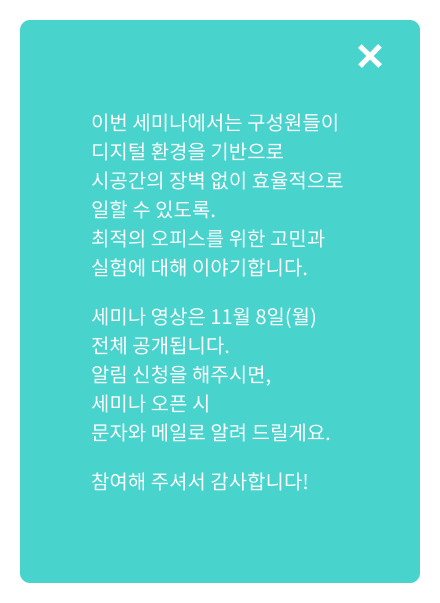
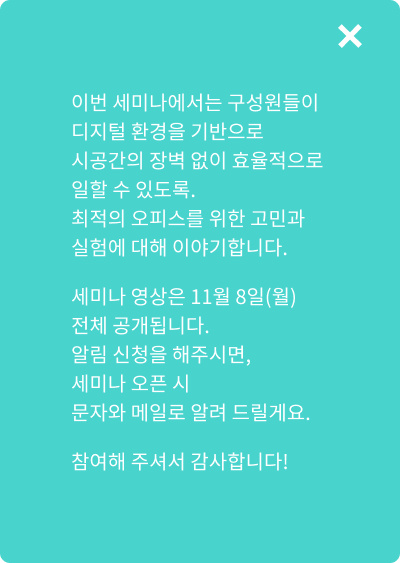
fullpage

diff --git a/09fullpage/js/jquery.colorbox-min.js b/09fullpage/js/jquery.colorbox-min.js
@@ -1,0 +1,6 @@
+/*!
+	Colorbox 1.6.4
+	license: MIT
+	http://www.jacklmoore.com/colorbox
+*/
+(function(t,e,i){function n(i,n,o){var r=e.createElement(i);return n&&(r.id=Z+n),o&&(r.style.cssText=o),t(r)}function o(){return i.innerHeight?i.innerHeight:t(i).height()}function r(e,i){i!==Object(i)&&(i={}),this.cache={},this.el=e,this.value=function(e){var n;return void 0===this.cache[e]&&(n=t(this.el).attr("data-cbox-"+e),void 0!==n?this.cache[e]=n:void 0!==i[e]?this.cache[e]=i[e]:void 0!==X[e]&&(this.cache[e]=X[e])),this.cache[e]},this.get=function(e){var i=this.value(e);return t.isFunction(i)?i.call(this.el,this):i}}function h(t){var e=W.length,i=(A+t)%e;return 0>i?e+i:i}function a(t,e){return Math.round((/%/.test(t)?("x"===e?E.width():o())/100:1)*parseInt(t,10))}function s(t,e){return t.get("photo")||t.get("photoRegex").test(e)}function l(t,e){return t.get("retinaUrl")&&i.devicePixelRatio>1?e.replace(t.get("photoRegex"),t.get("retinaSuffix")):e}function d(t){"contains"in x[0]&&!x[0].contains(t.target)&&t.target!==v[0]&&(t.stopPropagation(),x.focus())}function c(t){c.str!==t&&(x.add(v).removeClass(c.str).addClass(t),c.str=t)}function g(e){A=0,e&&e!==!1&&"nofollow"!==e?(W=t("."+te).filter(function(){var i=t.data(this,Y),n=new r(this,i);return n.get("rel")===e}),A=W.index(_.el),-1===A&&(W=W.add(_.el),A=W.length-1)):W=t(_.el)}function u(i){t(e).trigger(i),ae.triggerHandler(i)}function f(i){var o;if(!G){if(o=t(i).data(Y),_=new r(i,o),g(_.get("rel")),!U){U=$=!0,c(_.get("className")),x.css({visibility:"hidden",display:"block",opacity:""}),I=n(se,"LoadedContent","width:0; height:0; overflow:hidden; visibility:hidden"),b.css({width:"",height:""}).append(I),j=T.height()+k.height()+b.outerHeight(!0)-b.height(),D=C.width()+H.width()+b.outerWidth(!0)-b.width(),N=I.outerHeight(!0),z=I.outerWidth(!0);var h=a(_.get("initialWidth"),"x"),s=a(_.get("initialHeight"),"y"),l=_.get("maxWidth"),f=_.get("maxHeight");_.w=Math.max((l!==!1?Math.min(h,a(l,"x")):h)-z-D,0),_.h=Math.max((f!==!1?Math.min(s,a(f,"y")):s)-N-j,0),I.css({width:"",height:_.h}),J.position(),u(ee),_.get("onOpen"),O.add(F).hide(),x.focus(),_.get("trapFocus")&&e.addEventListener&&(e.addEventListener("focus",d,!0),ae.one(re,function(){e.removeEventListener("focus",d,!0)})),_.get("returnFocus")&&ae.one(re,function(){t(_.el).focus()})}var p=parseFloat(_.get("opacity"));v.css({opacity:p===p?p:"",cursor:_.get("overlayClose")?"pointer":"",visibility:"visible"}).show(),_.get("closeButton")?B.html(_.get("close")).appendTo(b):B.appendTo("<div/>"),w()}}function p(){x||(V=!1,E=t(i),x=n(se).attr({id:Y,"class":t.support.opacity===!1?Z+"IE":"",role:"dialog",tabindex:"-1"}).hide(),v=n(se,"Overlay").hide(),L=t([n(se,"LoadingOverlay")[0],n(se,"LoadingGraphic")[0]]),y=n(se,"Wrapper"),b=n(se,"Content").append(F=n(se,"Title"),R=n(se,"Current"),P=t('<button type="button"/>').attr({id:Z+"Previous"}),K=t('<button type="button"/>').attr({id:Z+"Next"}),S=t('<button type="button"/>').attr({id:Z+"Slideshow"}),L),B=t('<button type="button"/>').attr({id:Z+"Close"}),y.append(n(se).append(n(se,"TopLeft"),T=n(se,"TopCenter"),n(se,"TopRight")),n(se,!1,"clear:left").append(C=n(se,"MiddleLeft"),b,H=n(se,"MiddleRight")),n(se,!1,"clear:left").append(n(se,"BottomLeft"),k=n(se,"BottomCenter"),n(se,"BottomRight"))).find("div div").css({"float":"left"}),M=n(se,!1,"position:absolute; width:9999px; visibility:hidden; display:none; max-width:none;"),O=K.add(P).add(R).add(S)),e.body&&!x.parent().length&&t(e.body).append(v,x.append(y,M))}function m(){function i(t){t.which>1||t.shiftKey||t.altKey||t.metaKey||t.ctrlKey||(t.preventDefault(),f(this))}return x?(V||(V=!0,K.click(function(){J.next()}),P.click(function(){J.prev()}),B.click(function(){J.close()}),v.click(function(){_.get("overlayClose")&&J.close()}),t(e).bind("keydown."+Z,function(t){var e=t.keyCode;U&&_.get("escKey")&&27===e&&(t.preventDefault(),J.close()),U&&_.get("arrowKey")&&W[1]&&!t.altKey&&(37===e?(t.preventDefault(),P.click()):39===e&&(t.preventDefault(),K.click()))}),t.isFunction(t.fn.on)?t(e).on("click."+Z,"."+te,i):t("."+te).live("click."+Z,i)),!0):!1}function w(){var e,o,r,h=J.prep,d=++le;if($=!0,q=!1,u(he),u(ie),_.get("onLoad"),_.h=_.get("height")?a(_.get("height"),"y")-N-j:_.get("innerHeight")&&a(_.get("innerHeight"),"y"),_.w=_.get("width")?a(_.get("width"),"x")-z-D:_.get("innerWidth")&&a(_.get("innerWidth"),"x"),_.mw=_.w,_.mh=_.h,_.get("maxWidth")&&(_.mw=a(_.get("maxWidth"),"x")-z-D,_.mw=_.w&&_.w<_.mw?_.w:_.mw),_.get("maxHeight")&&(_.mh=a(_.get("maxHeight"),"y")-N-j,_.mh=_.h&&_.h<_.mh?_.h:_.mh),e=_.get("href"),Q=setTimeout(function(){L.show()},100),_.get("inline")){var c=t(e).eq(0);r=t("<div>").hide().insertBefore(c),ae.one(he,function(){r.replaceWith(c)}),h(c)}else _.get("iframe")?h(" "):_.get("html")?h(_.get("html")):s(_,e)?(e=l(_,e),q=_.get("createImg"),t(q).addClass(Z+"Photo").bind("error."+Z,function(){h(n(se,"Error").html(_.get("imgError")))}).one("load",function(){d===le&&setTimeout(function(){var e;_.get("retinaImage")&&i.devicePixelRatio>1&&(q.height=q.height/i.devicePixelRatio,q.width=q.width/i.devicePixelRatio),_.get("scalePhotos")&&(o=function(){q.height-=q.height*e,q.width-=q.width*e},_.mw&&q.width>_.mw&&(e=(q.width-_.mw)/q.width,o()),_.mh&&q.height>_.mh&&(e=(q.height-_.mh)/q.height,o())),_.h&&(q.style.marginTop=Math.max(_.mh-q.height,0)/2+"px"),W[1]&&(_.get("loop")||W[A+1])&&(q.style.cursor="pointer",t(q).bind("click."+Z,function(){J.next()})),q.style.width=q.width+"px",q.style.height=q.height+"px",h(q)},1)}),q.src=e):e&&M.load(e,_.get("data"),function(e,i){d===le&&h("error"===i?n(se,"Error").html(_.get("xhrError")):t(this).contents())})}var v,x,y,b,T,C,H,k,W,E,I,M,L,F,R,S,K,P,B,O,_,j,D,N,z,A,q,U,$,G,Q,J,V,X={html:!1,photo:!1,iframe:!1,inline:!1,transition:"elastic",speed:300,fadeOut:300,width:!1,initialWidth:"600",innerWidth:!1,maxWidth:!1,height:!1,initialHeight:"450",innerHeight:!1,maxHeight:!1,scalePhotos:!0,scrolling:!0,opacity:.9,preloading:!0,className:!1,overlayClose:!0,escKey:!0,arrowKey:!0,top:!1,bottom:!1,left:!1,right:!1,fixed:!1,data:void 0,closeButton:!0,fastIframe:!0,open:!1,reposition:!0,loop:!0,slideshow:!1,slideshowAuto:!0,slideshowSpeed:2500,slideshowStart:"start slideshow",slideshowStop:"stop slideshow",photoRegex:/\.(gif|png|jp(e|g|eg)|bmp|ico|webp|jxr|svg)((#|\?).*)?$/i,retinaImage:!1,retinaUrl:!1,retinaSuffix:"@2x.$1",current:"image {current} of {total}",previous:"previous",next:"next",close:"close",xhrError:"This content failed to load.",imgError:"This image failed to load.",returnFocus:!0,trapFocus:!0,onOpen:!1,onLoad:!1,onComplete:!1,onCleanup:!1,onClosed:!1,rel:function(){return this.rel},href:function(){return t(this).attr("href")},title:function(){return this.title},createImg:function(){var e=new Image,i=t(this).data("cbox-img-attrs");return"object"==typeof i&&t.each(i,function(t,i){e[t]=i}),e},createIframe:function(){var i=e.createElement("iframe"),n=t(this).data("cbox-iframe-attrs");return"object"==typeof n&&t.each(n,function(t,e){i[t]=e}),"frameBorder"in i&&(i.frameBorder=0),"allowTransparency"in i&&(i.allowTransparency="true"),i.name=(new Date).getTime(),i.allowFullscreen=!0,i}},Y="colorbox",Z="cbox",te=Z+"Element",ee=Z+"_open",ie=Z+"_load",ne=Z+"_complete",oe=Z+"_cleanup",re=Z+"_closed",he=Z+"_purge",ae=t("<a/>"),se="div",le=0,de={},ce=function(){function t(){clearTimeout(h)}function e(){(_.get("loop")||W[A+1])&&(t(),h=setTimeout(J.next,_.get("slideshowSpeed")))}function i(){S.html(_.get("slideshowStop")).unbind(s).one(s,n),ae.bind(ne,e).bind(ie,t),x.removeClass(a+"off").addClass(a+"on")}function n(){t(),ae.unbind(ne,e).unbind(ie,t),S.html(_.get("slideshowStart")).unbind(s).one(s,function(){J.next(),i()}),x.removeClass(a+"on").addClass(a+"off")}function o(){r=!1,S.hide(),t(),ae.unbind(ne,e).unbind(ie,t),x.removeClass(a+"off "+a+"on")}var r,h,a=Z+"Slideshow_",s="click."+Z;return function(){r?_.get("slideshow")||(ae.unbind(oe,o),o()):_.get("slideshow")&&W[1]&&(r=!0,ae.one(oe,o),_.get("slideshowAuto")?i():n(),S.show())}}();t[Y]||(t(p),J=t.fn[Y]=t[Y]=function(e,i){var n,o=this;return e=e||{},t.isFunction(o)&&(o=t("<a/>"),e.open=!0),o[0]?(p(),m()&&(i&&(e.onComplete=i),o.each(function(){var i=t.data(this,Y)||{};t.data(this,Y,t.extend(i,e))}).addClass(te),n=new r(o[0],e),n.get("open")&&f(o[0])),o):o},J.position=function(e,i){function n(){T[0].style.width=k[0].style.width=b[0].style.width=parseInt(x[0].style.width,10)-D+"px",b[0].style.height=C[0].style.height=H[0].style.height=parseInt(x[0].style.height,10)-j+"px"}var r,h,s,l=0,d=0,c=x.offset();if(E.unbind("resize."+Z),x.css({top:-9e4,left:-9e4}),h=E.scrollTop(),s=E.scrollLeft(),_.get("fixed")?(c.top-=h,c.left-=s,x.css({position:"fixed"})):(l=h,d=s,x.css({position:"absolute"})),d+=_.get("right")!==!1?Math.max(E.width()-_.w-z-D-a(_.get("right"),"x"),0):_.get("left")!==!1?a(_.get("left"),"x"):Math.round(Math.max(E.width()-_.w-z-D,0)/2),l+=_.get("bottom")!==!1?Math.max(o()-_.h-N-j-a(_.get("bottom"),"y"),0):_.get("top")!==!1?a(_.get("top"),"y"):Math.round(Math.max(o()-_.h-N-j,0)/2),x.css({top:c.top,left:c.left,visibility:"visible"}),y[0].style.width=y[0].style.height="9999px",r={width:_.w+z+D,height:_.h+N+j,top:l,left:d},e){var g=0;t.each(r,function(t){return r[t]!==de[t]?(g=e,void 0):void 0}),e=g}de=r,e||x.css(r),x.dequeue().animate(r,{duration:e||0,complete:function(){n(),$=!1,y[0].style.width=_.w+z+D+"px",y[0].style.height=_.h+N+j+"px",_.get("reposition")&&setTimeout(function(){E.bind("resize."+Z,J.position)},1),t.isFunction(i)&&i()},step:n})},J.resize=function(t){var e;U&&(t=t||{},t.width&&(_.w=a(t.width,"x")-z-D),t.innerWidth&&(_.w=a(t.innerWidth,"x")),I.css({width:_.w}),t.height&&(_.h=a(t.height,"y")-N-j),t.innerHeight&&(_.h=a(t.innerHeight,"y")),t.innerHeight||t.height||(e=I.scrollTop(),I.css({height:"auto"}),_.h=I.height()),I.css({height:_.h}),e&&I.scrollTop(e),J.position("none"===_.get("transition")?0:_.get("speed")))},J.prep=function(i){function o(){return _.w=_.w||I.width(),_.w=_.mw&&_.mw<_.w?_.mw:_.w,_.w}function a(){return _.h=_.h||I.height(),_.h=_.mh&&_.mh<_.h?_.mh:_.h,_.h}if(U){var d,g="none"===_.get("transition")?0:_.get("speed");I.remove(),I=n(se,"LoadedContent").append(i),I.hide().appendTo(M.show()).css({width:o(),overflow:_.get("scrolling")?"auto":"hidden"}).css({height:a()}).prependTo(b),M.hide(),t(q).css({"float":"none"}),c(_.get("className")),d=function(){function i(){t.support.opacity===!1&&x[0].style.removeAttribute("filter")}var n,o,a=W.length;U&&(o=function(){clearTimeout(Q),L.hide(),u(ne),_.get("onComplete")},F.html(_.get("title")).show(),I.show(),a>1?("string"==typeof _.get("current")&&R.html(_.get("current").replace("{current}",A+1).replace("{total}",a)).show(),K[_.get("loop")||a-1>A?"show":"hide"]().html(_.get("next")),P[_.get("loop")||A?"show":"hide"]().html(_.get("previous")),ce(),_.get("preloading")&&t.each([h(-1),h(1)],function(){var i,n=W[this],o=new r(n,t.data(n,Y)),h=o.get("href");h&&s(o,h)&&(h=l(o,h),i=e.createElement("img"),i.src=h)})):O.hide(),_.get("iframe")?(n=_.get("createIframe"),_.get("scrolling")||(n.scrolling="no"),t(n).attr({src:_.get("href"),"class":Z+"Iframe"}).one("load",o).appendTo(I),ae.one(he,function(){n.src="//about:blank"}),_.get("fastIframe")&&t(n).trigger("load")):o(),"fade"===_.get("transition")?x.fadeTo(g,1,i):i())},"fade"===_.get("transition")?x.fadeTo(g,0,function(){J.position(0,d)}):J.position(g,d)}},J.next=function(){!$&&W[1]&&(_.get("loop")||W[A+1])&&(A=h(1),f(W[A]))},J.prev=function(){!$&&W[1]&&(_.get("loop")||A)&&(A=h(-1),f(W[A]))},J.close=function(){U&&!G&&(G=!0,U=!1,u(oe),_.get("onCleanup"),E.unbind("."+Z),v.fadeTo(_.get("fadeOut")||0,0),x.stop().fadeTo(_.get("fadeOut")||0,0,function(){x.hide(),v.hide(),u(he),I.remove(),setTimeout(function(){G=!1,u(re),_.get("onClosed")},1)}))},J.remove=function(){x&&(x.stop(),t[Y].close(),x.stop(!1,!0).remove(),v.remove(),G=!1,x=null,t("."+te).removeData(Y).removeClass(te),t(e).unbind("click."+Z).unbind("keydown."+Z))},J.element=function(){return t(_.el)},J.settings=X)})(jQuery,document,window);

diff --git a/09fullpage/index.html b/09fullpage/index.html
@@ -18,97 +18,6 @@
     <script src="https://cdn.jsdelivr.net/npm/bootstrap@4.6.0/dist/js/bootstrap.bundle.min.js" integrity="sha384-Piv4xVNRyMGpqkS2by6br4gNJ7DXjqk09RmUpJ8jgGtD7zP9yug3goQfGII0yAns" crossorigin="anonymous"></script>
     <script src="https://unpkg.com/swiper/swiper-bundle.min.js"></script>
 
-    <script>
-        $(function(){
-            $("#fullpage").fullpage({
-                menu:".navbar-nav",
-                anchors:["m1st","m2st","m3st","m4st"],
-                navigation:true,
-                navigationPosition: 'fp-right',
-                navigationTooltips: ['main', 'First', 'Second','Third','footer'],
-                responsiveWidth: 768,
-            });
-
-            const swiper = new Swiper(".swiper.swiper01", {
-                slidesPerView:3,
-                loop:true,
-                autoplay: {
-                    delay: 2000,
-                },
-                navigation: {
-                    nextEl: ".swiper-button-next",
-                    prevEl: ".swiper-button-prev",
-                },
-                breakpoints: {
-                    758: {
-                        slidesPerView: 2,
-                        // spaceBetween: 20,
-                    },
-                    992: {
-                        slidesPerView: 2,
-                        // spaceBetween: 10,
-                    },
-                    993: {
-                        slidesPerView: 1,
-                    },
-                },
-            });
-
-            window.addEventListener("scroll",function(){
-                let scrollY = window.pageYOffset;
-                console.log(scrollY);
-                if(scrollY > 100){
-                    $(".navbar").addClass("bg-blk px-lg-5")
-                    $(".navbar").removeClass("mt-4")
-                    $(".navbar .navbar-brand").addClass("ud")
-                }else{
-                    $(".navbar").removeClass("bg-blk px-lg-5")
-                    $(".navbar").addClass("mt-4")
-                    $(".navbar .navbar-brand").removeClass("ud")
-                }
-            });
-            
-            let winWidth = window.width();
-            winSize();
-
-            window.addEventListener("resize",function(){
-                winWidth = window.width();
-                winSize()
-            });
-
-            function winSize(){
-                let onView = true;
-                if(winWidth < 768){
-                    $(".navbar-toggle").click(function(){
-                        if(onView == true){
-                            $(".navbar").addClass("onView");
-                            onView = false;
-                        }else{
-                            $(".navbar").removeClass("onView");
-                            onView = true;
-                        }
-                    })
-                }
-            };
-
-            $("body").append(`
-            <div class="glaylayer"></div>
-            <div class="overlayer"></div>
-            `)
-
-            $("#btn01").click(function(e){
-                e.preventDefault();
-                $(".glaylayer").fadeIn();
-
-                let ahref = $(this).attr("href");
-                $(".overlayer").fadeIn().html(`<img src="${ahref}">`);
-            });
-
-            $(".glaylayer,.overlayer").click(function(){
-                $(".glaylayer,.overlayer").fadeOut();
-            })
-        })
-    </script>
 </head>
 <body>
     <nav class="navbar navbar-expand-md navbar-light mt-4 fixed-top px-3 px-lg-5">
@@ -157,9 +66,10 @@
                 <div class="sec01_lf_txt d-lg-block d-flex justify-content-center align-items-center">
                     <div class="lf_title mb-0 mb-lg-4 mr-md-3 mr-lg-0">
                         <img src="images/sec1_logo.png" alt="" class="img-fluid mb20">
-                        <a href="images/modal01.png" class="btn d-md-none" id="btn01">
+                        <!-- <a href="#!" class="btn d-md-none" id="btn01">
                             자세히 알아보기
-                        </a>
+                        </a> -->
+                        <div class="btn d-md-none" id="btn01">자세히 알아보기</div>
                     </div>
                     <div class="lf_copy text-white d-none d-md-block">
                         <p class="mb20">
@@ -178,7 +88,6 @@
                             참여해 주셔서 감사합니다!
                         </p>
                     </div>
-                    
                 </div>
             </div>
             <div class="sec01_rt px-2 px-md-0">
@@ -339,6 +248,28 @@
                         </div>
                         <div class="swiper-button-next next-btn"></div>
                         <div class="swiper-button-prev prev-btn"></div>
+                    </div>
+                </div>
+            </div>
+            <div id="modal" class="modal_overlay">
+                <div class="modal-window">
+                    <img src="images/close.png" alt="" class="close">
+                    <div class="modal-content">
+                        <p class="mb20">
+                            이번 세미나에서는 구성원들이<br>
+                            디지털 환경을 기반으로<br>
+                            시공간의 장벽 없이 효율적으로 일할 수 있도록.<br>
+                            최적의 오피스를 위한 고민과<br>
+                            실험에 대해 이야기합니다.
+                        </p>
+                        <p class="mb20">
+                            세미나 영상은 11월 8일(월) 전체 공개됩니다.<br>
+                            알림 신청을 해주시면,<br>
+                            세미나 오픈 시 문자와 메일로 알려 드릴게요.
+                        </p>
+                        <p>
+                            참여해 주셔서 감사합니다!
+                        </p>
                     </div>
                 </div>
             </div>
@@ -589,5 +520,8 @@
             </div>
         </div>
     </div>
+
+    <script src="js/script.js"></script>
+
 </body>
 </html>

diff --git a/09fullpage/css/colorbox.css b/09fullpage/css/colorbox.css
@@ -1,0 +1,45 @@
+/*
+    Colorbox Core Style:
+    The following CSS is consistent between example themes and should not be altered.
+*/
+#colorbox, #cboxOverlay, #cboxWrapper{position:absolute; top:0; left:0; z-index:9999; overflow:hidden; -webkit-transform: translate3d(0,0,0);}
+#cboxWrapper {max-width:none;}
+#cboxOverlay{position:fixed; width:100%; height:100%;}
+#cboxMiddleLeft, #cboxBottomLeft{clear:left;}
+#cboxContent{position:relative;}
+#cboxLoadedContent{overflow:auto; -webkit-overflow-scrolling: touch;}
+#cboxTitle{margin:0;}
+#cboxLoadingOverlay, #cboxLoadingGraphic{position:absolute; top:0; left:0; width:100%; height:100%;}
+#cboxPrevious, #cboxNext, #cboxClose, #cboxSlideshow{cursor:pointer;}
+.cboxPhoto{float:left; margin:auto; border:0; display:block; max-width:none; -ms-interpolation-mode:bicubic;}
+.cboxIframe{width:100%; height:100%; display:block; border:0; padding:0; margin:0;}
+#colorbox, #cboxContent, #cboxLoadedContent{box-sizing:content-box; -moz-box-sizing:content-box; -webkit-box-sizing:content-box;}
+
+/* 
+    User Style:
+    Change the following styles to modify the appearance of Colorbox.  They are
+    ordered & tabbed in a way that represents the nesting of the generated HTML.
+*/
+#cboxOverlay{background:#000; opacity: 0.9; filter: alpha(opacity = 90);}
+#colorbox{outline:0;}
+    #cboxContent{margin-top:20px;background:#000;}
+        .cboxIframe{background:#fff;}
+        #cboxError{padding:50px; border:1px solid #ccc;}
+        #cboxLoadedContent{border:5px solid #000; background:#fff;}
+        #cboxTitle{position:absolute; top:-20px; left:0; color:#ccc;}
+        #cboxCurrent{position:absolute; top:-20px; right:0px; color:#ccc;}
+        #cboxLoadingGraphic{background:url(../images/loading.gif) no-repeat center center;}
+
+        /* these elements are buttons, and may need to have additional styles reset to avoid unwanted base styles */
+        #cboxPrevious, #cboxNext, #cboxSlideshow, #cboxClose {border:0; padding:0; margin:0; overflow:visible; width:auto; background:none; }
+        
+        /* avoid outlines on :active (mouseclick), but preserve outlines on :focus (tabbed navigating) */
+        #cboxPrevious:active, #cboxNext:active, #cboxSlideshow:active, #cboxClose:active {outline:0;}
+        
+        #cboxSlideshow{position:absolute; top:-20px; right:90px; color:#fff;}
+        #cboxPrevious{position:absolute; top:50%; left:5px; margin-top:-32px; background:url(../images/controls.png) no-repeat top left; width:28px; height:65px; text-indent:-9999px;}
+        #cboxPrevious:hover{background-position:bottom left;}
+        #cboxNext{position:absolute; top:50%; right:5px; margin-top:-32px; background:url(../images/controls.png) no-repeat top right; width:28px; height:65px; text-indent:-9999px;}
+        #cboxNext:hover{background-position:bottom right;}
+        #cboxClose{position:absolute; top:5px; right:5px; display:block; background:url(../images/controls.png) no-repeat top center; width:38px; height:19px; text-indent:-9999px;}
+        #cboxClose:hover{background-position:bottom center;}

diff --git a/09fullpage/js/script.js b/09fullpage/js/script.js
@@ -1,0 +1,95 @@
+
+$("#fullpage").fullpage({
+    menu:".navbar-nav",
+    anchors:["m1st","m2st","m3st","m4st"],
+    navigation:true,
+    navigationPosition: 'fp-right',
+    navigationTooltips: ['main', 'First', 'Second','Third','footer'],
+    responsiveWidth: 768,
+});
+
+const swiper = new Swiper(".swiper.swiper01", {
+    slidesPerView:3,
+    loop:true,
+    autoplay: {
+        delay: 2000,
+    },
+    navigation: {
+        nextEl: ".swiper-button-next",
+        prevEl: ".swiper-button-prev",
+    },
+    breakpoints: {
+        758: {
+            slidesPerView: 2,
+            // spaceBetween: 20,
+        },
+        992: {
+            slidesPerView: 2,
+            // spaceBetween: 10,
+        },
+        993: {
+            slidesPerView: 1,
+        },
+    },
+});
+
+window.addEventListener("scroll",function(){
+    let scrollY = window.pageYOffset;
+    console.log(scrollY);
+    if(scrollY > 100){
+        $(".navbar").addClass("bg-blk px-lg-5")
+        $(".navbar").removeClass("mt-4")
+        $(".navbar .navbar-brand").addClass("ud")
+    }else{
+        $(".navbar").removeClass("bg-blk px-lg-5")
+        $(".navbar").addClass("mt-4")
+        $(".navbar .navbar-brand").removeClass("ud")
+    }
+});
+
+let winWidth = window.width();
+winSize();
+
+window.addEventListener("resize",function(){
+    winWidth = window.width();
+    winSize()
+});
+
+function winSize(){
+    let onView = true;
+    if(winWidth < 768){
+        $(".navbar-toggle").click(function(){
+            if(onView == true){
+                $(".navbar").addClass("onView");
+                onView = false;
+            }else{
+                $(".navbar").removeClass("onView");
+                onView = true;
+            }
+        })
+    }
+};
+
+// $("a#btn01").append(`
+// <div class="glaylayer"></div>
+// <div class="overlayer"></div>
+// `)
+
+// $("a#btn01").click(function(e){
+//     e.preventDefault();
+//     $(".glaylayer").fadeIn();
+
+//     let ahref = $(this).attr("href");
+//     $(".overlayer").fadeIn().html(`<img src="${ahref}">`);
+// });
+
+// $(".glaylayer,.overlayer").click(function(){
+//     $(".glaylayer,.overlayer").fadeOut();
+// })
+
+
+const modal = document.getElementById("#modal.modal_overlay")
+const btnModal = document.getElementById(".sec01_lf #btn01")
+btnModal.addEventListener("click",function(){
+    modal.style.display = "flex"
+})

diff --git a/09fullpage/css/style.css b/09fullpage/css/style.css
@@ -374,7 +374,7 @@ input.zipcode{
 }
 
 /* modal */
-.glaylayer{
+/* .glaylayer{
     width: 100%;height: 100%;
     background: #fff;opacity: 0.5;
     position: fixed;top: 0;left: 0;
@@ -384,8 +384,8 @@ input.zipcode{
     position: fixed;top: 50%;left: 50%;
     transform: translate(-50%,-50%);
     display: none;
-}
-.modal-box01{
+} */
+/* .modal-box01{
     width: 400px;height: 563px;
     position: absolute;top: 50%;left: 50%;
     transform: translate(-50%,-50%);z-index: 2;
@@ -401,7 +401,43 @@ input.zipcode{
     background-image: url(../images/close.png);
     background-repeat: no-repeat;background-size: cover;
     background-position:center;text-indent: -9999px;
+} */
+
+/* .sec01 .modal01_bg{
+    display: none;position: fixed;left: 0;top: 0;z-index: 5;
+    width: 100%;height: 100%;background-color:rgba(0,0,0,0.5);
 }
+.sec01 .modal01_bg .modal01_img{
+    position: fixed;left: 50%;top: 50%;z-index: 6;
+    transform: translate(-50%,-50%);
+    width: 400px;height: 563px;display: none;
+} */
+.sec01{position: relative;}
+#modal.modal_overlay{
+    width: 100%;height: 100%;
+    position: absolute;left: 0;top: 0;
+    background:rgba(255, 255, 255, 0.3);z-index: 5;
+    display: none;flex-direction: column;
+    align-items: center;justify-content: center;
+}
+#modal .modal-window{
+    width: 400px;height: 563px;background: #48D3CD;
+    position: relative;top: 50%;left: 50%;transform: translate(-50%,-50%);
+    border-radius: 10px;box-shadow: 0px 0px 20px rgba(255, 255, 255, 0.5);
+}
+#modal .modal-window .modal-content{
+    position: absolute;top: 0;left: 0;
+    padding: 87px 71px;background:transparent;
+    border: 0 none;
+}
+#modal .modal-window .modal-content p{
+    font-size: 18px;color: #fff;  
+}
+#modal .modal-window img{
+    position: absolute;top: 30px;right: 30px;
+    cursor: pointer;z-index: 5;
+}
+
 
 @media screen and (min-width:758px) and (max-width:991px){ /* md */
     .sec01 .sec01_lf,.sec01 .sec01_rt{
